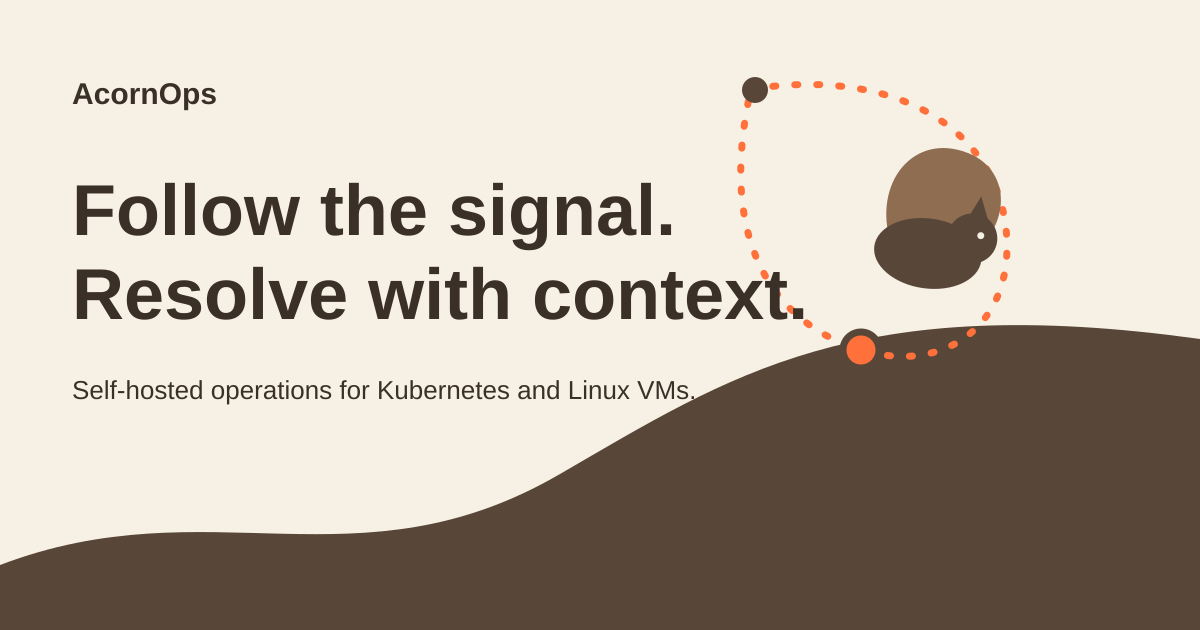
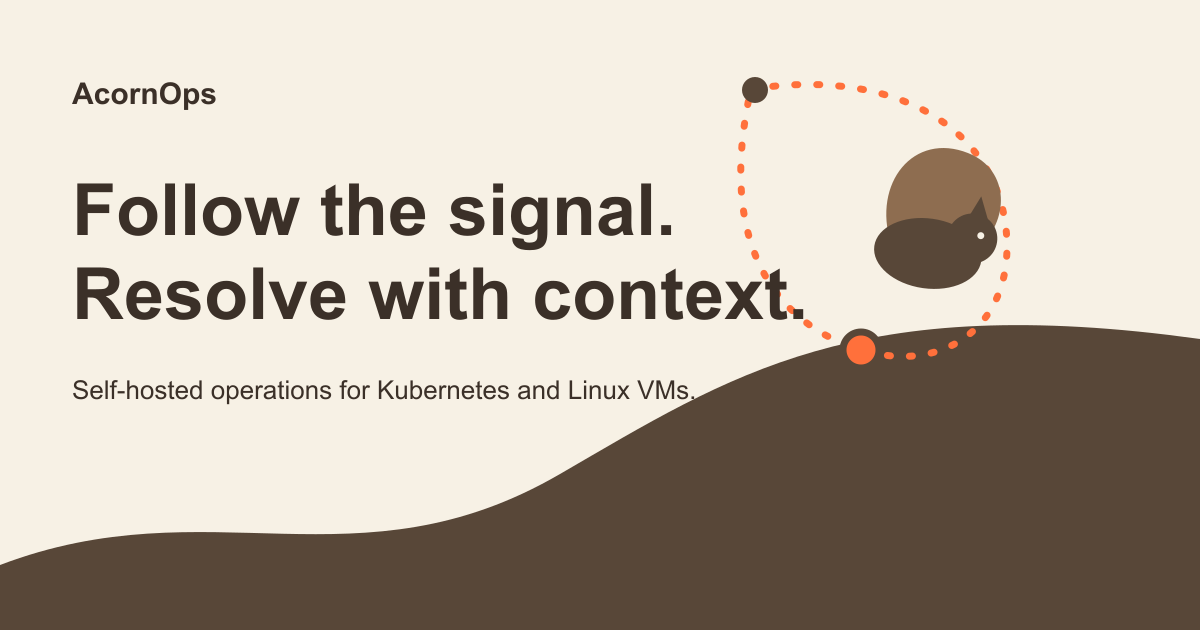
feat: add workflows and agents story

diff --git a/src/styles/global.css b/src/styles/global.css
@@ -236,7 +236,7 @@ a {
 }
 
 .hero[data-enhanced='true'] {
-  height: 165svh;
+  height: 320svh;
 }
 
 .hero[data-enhanced='true'] .hero__stage {
@@ -258,6 +258,7 @@ a {
 
 .hero h1,
 .walkthrough h2,
+.automation h2,
 .boundary h2,
 .open-band h2,
 .final-cta h2,
@@ -269,15 +270,49 @@ a {
 }
 
 .hero h1 {
+  width: 100%;
   max-width: 16ch;
+  min-height: 2.04em;
+  display: grid;
+  align-items: center;
   font-size: var(--text-hero);
   letter-spacing: -0.04em;
   text-wrap: balance;
 }
 
-.hero__content > p {
-  max-width: 46ch;
-  margin: clamp(1rem, 1.5vw, 1.25rem) 0 0;
+.hero__story {
+  width: min(100%, 50rem);
+  min-height: 8rem;
+  display: grid;
+  margin-top: clamp(1rem, 1.5vw, 1.25rem);
+}
+
+.hero__title-beat,
+.hero__beat {
+  grid-area: 1 / 1;
+  visibility: hidden;
+  opacity: 0;
+  transform: translateY(0.75rem);
+  transition: opacity 240ms cubic-bezier(0.22, 1, 0.36, 1), transform 360ms cubic-bezier(0.22, 1, 0.36, 1), visibility 0s linear 360ms;
+}
+
+.hero__beat {
+  display: grid;
+  justify-items: center;
+  align-content: start;
+}
+
+.hero__title-beat[data-active='true'],
+.hero__beat[data-active='true'] {
+  visibility: visible;
+  opacity: 1;
+  transform: translateY(0);
+  transition-delay: 80ms, 80ms, 0s;
+}
+
+.hero__beat p {
+  max-width: 50ch;
+  margin: 0;
   color: var(--ink-soft);
   font-size: var(--text-lead);
   line-height: 1.6;
@@ -762,6 +797,82 @@ a {
 
 }
 
+.automation {
+  padding-block: var(--space-section);
+  background: var(--surface-muted);
+  border-block: 1px solid var(--rule);
+}
+
+.automation__inner {
+  display: grid;
+  grid-template-columns: minmax(20rem, 0.84fr) minmax(0, 1.16fr);
+  align-items: start;
+  gap: clamp(3rem, 8vw, 8rem);
+}
+
+.automation__heading h2 {
+  max-width: 15ch;
+  font-size: clamp(3rem, 5.2vw, 5.25rem);
+  line-height: 1.03;
+  text-wrap: balance;
+}
+
+.automation__heading > p {
+  max-width: 43ch;
+  margin: 1.5rem 0 0;
+  color: var(--ink-soft);
+  font-size: var(--text-lead);
+  line-height: 1.6;
+  text-wrap: pretty;
+}
+
+.automation__heading > a {
+  min-height: 2.75rem;
+  display: inline-flex;
+  align-items: center;
+  gap: 0.5rem;
+  margin-top: 1.25rem;
+  color: var(--brand-orange-readable);
+  font-weight: 650;
+}
+
+.automation-path {
+  margin: 0;
+  padding: 0;
+  border-top: 1px solid var(--rule-strong);
+  list-style: none;
+}
+
+.automation-path li {
+  display: grid;
+  grid-template-columns: 2rem minmax(8rem, 0.38fr) minmax(0, 1fr);
+  gap: clamp(0.75rem, 2vw, 1.5rem);
+  align-items: baseline;
+  padding-block: clamp(1.35rem, 2.5vw, 1.85rem);
+  border-bottom: 1px solid var(--rule-strong);
+}
+
+.automation-path li > span {
+  color: var(--brand-orange-readable);
+  font-size: var(--text-meta);
+  font-variant-numeric: tabular-nums;
+  font-weight: 700;
+}
+
+.automation-path li strong {
+  font-size: clamp(1.1rem, 1.6vw, 1.35rem);
+  font-weight: 650;
+  letter-spacing: -0.02em;
+}
+
+.automation-path li p {
+  max-width: 44ch;
+  margin: 0;
+  color: var(--ink-soft);
+  line-height: 1.6;
+  text-wrap: pretty;
+}
+
 .boundary {
   padding-block: var(--space-section);
 }
@@ -1058,7 +1169,12 @@ a {
     top: calc(var(--header-height) + clamp(2rem, 6vh, 3.5rem));
   }
 
-  .hero__content > p {
+  .hero__story {
+    width: min(100%, 36rem);
+    min-height: 8.75rem;
+  }
+
+  .hero__beat p {
     max-width: 34ch;
     line-height: 1.5;
   }
@@ -1465,6 +1581,7 @@ a {
 
 @media (max-width: 60rem) {
   .walkthrough__heading,
+  .automation__inner,
   .boundary__inner,
   .open-band__inner {
     grid-template-columns: 1fr;
@@ -1486,6 +1603,15 @@ a {
 }
 
 @media (max-width: 48rem) {
+  .automation-path li {
+    grid-template-columns: 2rem minmax(0, 1fr);
+    gap: 0.35rem 0.75rem;
+  }
+
+  .automation-path li p {
+    grid-column: 2;
+  }
+
   .boundary-map__sources {
     grid-template-columns: 1fr;
   }

diff --git a/tests/e2e/site.spec.ts b/tests/e2e/site.spec.ts
@@ -77,8 +77,9 @@ test('primary paths and all product states work without JavaScript', async ({ br
   const page = await context.newPage();
   await page.goto('/');
 
-  await expect(page.getByRole('heading', { level: 1 })).toHaveText('Operations that leave a trail.');
-  await expect(page.getByText(/self-hosted operations platform for Kubernetes clusters and Linux VMs/i)).toBeVisible();
+  await expect(page.getByRole('heading', { level: 1 })).toHaveAccessibleName('Turn incidents into evidence.');
+  await expect(page.getByText(/self-hosted AcornOps investigates incidents/i)).toBeVisible();
+  await expect(page.locator('[data-hero-story-beat]')).toHaveCount(6);
   await expect(page.getByRole('link', { name: /try the demo/i }).first()).toHaveAttribute('href', 'https://console.demo.acornops.dev/');
   await expect(page.getByRole('link', { name: /read the docs/i }).first()).toHaveAttribute('href', 'https://docs.acornops.dev/');
   await expect(page.locator('[data-hero]')).not.toHaveAttribute('data-enhanced', 'true');
@@ -89,6 +90,7 @@ test('primary paths and all product states work without JavaScript', async ({ br
   await expect(page.locator('[data-proof-screen="assistant_answer"]')).toContainText('Ask in the context of the system.');
   await expect(page.locator('[data-proof-screen="run_trace"]')).toContainText('Read the work, not just the answer.');
   await expect(page.locator('[data-walkthrough]')).not.toHaveAttribute('data-enhanced', 'true');
+  await expect(page.getByRole('heading', { name: /build the operation once/i })).toBeVisible();
   await context.close();
 });
 
@@ -259,6 +261,10 @@ test('hero chase maps direct and reverse scroll to five deterministic collection
   for (const [progress, count] of [[0.1, 1], [0.26, 2], [0.43, 3], [0.6, 4], [0.78, 5]] as const) {
     await scrollHeroTo(page, progress);
     await expect(page.locator('[data-hero-acorn][data-collected="true"]')).toHaveCount(count);
+    await expect(hero).toHaveAttribute('data-hero-story-step', String(count));
+    await expect(page.locator('[data-hero-story-beat][data-active="true"]')).toHaveCount(1);
+    await expect(page.locator('[data-hero-story-beat]').nth(count)).not.toHaveAttribute('aria-hidden', 'true');
+    await expect(page.locator('[data-hero-story-title]').nth(count)).not.toHaveAttribute('aria-hidden', 'true');
   }
 
   await scrollHeroTo(page, 1);
@@ -268,6 +274,8 @@ test('hero chase maps direct and reverse scroll to five deterministic collection
   await expect(page.locator('[data-hero-acorn][data-collected="true"]')).toHaveCount(3);
   await scrollHeroTo(page, 0);
   await expect(page.locator('[data-hero-acorn][data-collected="true"]')).toHaveCount(0);
+  await expect(hero).toHaveAttribute('data-hero-story-step', '0');
+  await expect(page.locator('[data-hero-story-beat]').first()).not.toHaveAttribute('aria-hidden', 'true');
   await expect(acorns.filter({ has: page.locator('[data-hero-acorn-hover]') }).first()).toHaveAttribute('data-collection-state', 'waiting');
   await context.close();
 });

diff --git a/src/scripts/motion.ts b/src/scripts/motion.ts
@@ -110,6 +110,12 @@ function initHeroChase(): boolean {
   const globeLayers = hero
     ? [...hero.querySelectorAll<SVGGElement>('[data-hero-globe-layer]')]
     : [];
+  const storyBeats = hero
+    ? [...hero.querySelectorAll<HTMLElement>('[data-hero-story-beat]')]
+    : [];
+  const storyTitles = hero
+    ? [...hero.querySelectorAll<HTMLElement>('[data-hero-story-title]')]
+    : [];
 
   if (
     !hero ||
@@ -122,6 +128,8 @@ function initHeroChase(): boolean {
     squirrelLegs.length < 2 ||
     acorns.length !== ACORN_PROGRESS.length ||
     ripples.length !== ACORN_PROGRESS.length ||
+    storyBeats.length !== ACORN_PROGRESS.length + 1 ||
+    storyTitles.length !== storyBeats.length ||
     !canEnhanceHero()
   ) {
     return false;
@@ -143,6 +151,26 @@ function initHeroChase(): boolean {
     acorn.dataset.collectionProgress = collectionProgress[index]?.toFixed(4);
   });
 
+  let activeStoryIndex = -1;
+
+  function activateStory(index: number): void {
+    if (activeStoryIndex === index) return;
+    activeStoryIndex = index;
+
+    storyBeats.forEach((beat, beatIndex) => {
+      const active = beatIndex === index;
+      beat.dataset.active = String(active);
+      if (active) beat.removeAttribute('aria-hidden');
+      else beat.setAttribute('aria-hidden', 'true');
+    });
+    storyTitles.forEach((title, titleIndex) => {
+      const active = titleIndex === index;
+      title.dataset.active = String(active);
+      if (active) title.removeAttribute('aria-hidden');
+      else title.setAttribute('aria-hidden', 'true');
+    });
+  }
+
   function clearHoveredAcorn(): void {
     acorns.forEach((acorn) => {
       delete acorn.dataset.hovered;
@@ -152,6 +180,9 @@ function initHeroChase(): boolean {
   function render(progressValue: number): void {
     const progress = clamp(progressValue);
     heroElement.dataset.heroProgress = progress.toFixed(4);
+    const collectedCount = collectionProgress.filter((threshold) => progress >= threshold).length;
+    heroElement.dataset.heroStoryStep = String(collectedCount);
+    activateStory(collectedCount);
 
     globeLayers.forEach((layer) => {
       const name = layer.dataset.heroGlobeLayer;

diff --git a/DESIGN.md b/DESIGN.md
@@ -49,13 +49,14 @@ Section titles are deliberately smaller than the hero so the page keeps a clear 
 
 ## Homepage Structure
 
-The homepage follows one incident from signal to record across five chapters:
+The homepage establishes two core product loops across six chapters:
 
-1. A centered, scroll-responsive hero composed onto the globe chase scene: one headline, one supporting paragraph, and two actions. The squirrel and acorns provide the brand motion metaphor without extra labels or progress controls.
+1. A centered, scroll-responsive hero composed onto the globe chase scene: a six-beat headline and supporting incident story with two persistent actions. The static opening beat contains the whole arc for mobile, reduced-motion, data-saving, and no-JavaScript visitors. On enhanced desktops, each collected acorn advances one reversible beat: promise, workload failure, alert, human-selected triage, capability discovery across MCP servers/skills/tools, and root cause with inspectable evidence. The squirrel and acorns carry the progression without extra labels or progress controls.
 2. A product walkthrough of one real incident, the payments worker crash-loop, shown as a sticky narrative: a step's number, title, and story beside the console capture for that state (workspace overview, assistant answer, expanded run trace), with a three-step progress rail. Captures are non-interactive product evidence with deterministic fixture provenance. On mobile, no-JS, and reduced motion the steps stack in normal flow.
-3. A "Runs inside your boundary" chapter: a ruled ledger stating the system boundary in plain text (self-hosted, Kubernetes clusters, Linux VMs, governed action), followed by a four-stage approval path that separates investigation from execution.
-4. A compact "Built in the open" band pointing to the source and docs.
-5. A final call to action flowing directly into the footer.
+3. A "Workflows and Agents" chapter establishes the second core product loop in a ruled sequence: reusable intent, direct or coordinated Agents, governed execution, and durable evidence. It stays code-native until deterministic workflow and Agent captures are available.
+4. A "Runs inside your boundary" chapter states the system boundary in plain text and separates investigation from execution.
+5. A compact "Built in the open" band pointing to the source and docs.
+6. A final call to action flowing directly into the footer.
 
 New sections must earn their place against the one-incident story and stay purely typographic where they are not showing the console. Do not add trust strips, invented metrics, testimonials, feature-card grids, abstract incident UI, or duplicated proof grids. The homepage squirrel is reserved for the purposeful globe chase in the hero. The console captures render at their native `1280 / 889` ratio. Use `width: auto` or `width: 100%` with `height: auto`, and never force both dimensions. All product imagery must be deterministic fixture captures with recorded provenance (`public/images/proof/README.md`); no mockups or hand-drawn UI.
 
@@ -68,7 +69,8 @@ Motion is quiet, functional, and progressively enhanced.
 - Detect, Investigate, and Verify crossfade in one overflow-hidden console frame. Captures remain at native scale with no transform so dense console text stays sharp.
 - The narrative rail, orange progress trace, and subtle frame-shadow shift support the scene changes. There is no looping, bounce, blur, or layout-property animation.
 - The hero enters once over 480 milliseconds with a short stagger.
-- The hero squirrel may move only as a direct, reversible expression of scroll progress. Do not loop decorative motion or hide content before JavaScript initializes.
+- The hero uses a CSS-sticky `100svh` stage across a `320svh` scroll range. Each acorn collection reversibly swaps both the headline and supporting story copy while the actions stay fixed.
+- The hero squirrel may move only as a direct, reversible expression of scroll progress. Do not loop decorative motion or hide the complete static summary before JavaScript initializes.
 
 ## Responsive and Fallback Behavior
 

diff --git a/PRODUCT.md b/PRODUCT.md
@@ -6,11 +6,11 @@ brand
 
 ## Users
 
-The primary audience is infrastructure engineers, platform engineers, SREs, and technical leaders evaluating an operations platform for Kubernetes clusters and Linux VMs. They arrive with healthy skepticism, often while comparing architecture, security boundaries, and incident workflows. They need to understand how AcornOps works, see authentic product evidence, and reach a live demo or documentation without marketing friction.
+The primary audience is infrastructure engineers, platform engineers, SREs, and technical leaders evaluating an operations platform for incident investigation and repeatable operational work. Kubernetes clusters and Linux VMs are important targets, while Workflows and Agents form a second core product pillar for coordinating tools, skills, MCP connections, schedules, approvals, and durable run evidence. Visitors arrive with healthy skepticism, often while comparing architecture, security boundaries, and operational workflows. They need to understand how AcornOps works, see authentic product evidence, and reach a live demo or documentation without marketing friction.
 
 ## Product Purpose
 
-This site explains AcornOps as a self-hosted operations platform that follows an operational signal through investigation, governed action, and inspectable evidence. Its primary conversion is the public demo. Documentation and GitHub provide secondary validation paths. Success means a technically informed visitor can understand the system boundary, trust the product claims, and choose a next step without needing JavaScript.
+This site explains AcornOps as a self-hosted operations platform with two core loops: follow an operational signal through investigation and inspectable evidence, then turn operational intent into governed, repeatable runs through Workflows and Agents. Its primary conversion is the public demo. Documentation and GitHub provide secondary validation paths. Success means a technically informed visitor can understand the system boundary, trust the product claims, and choose a next step without needing JavaScript.
 
 ## Brand Personality
 
